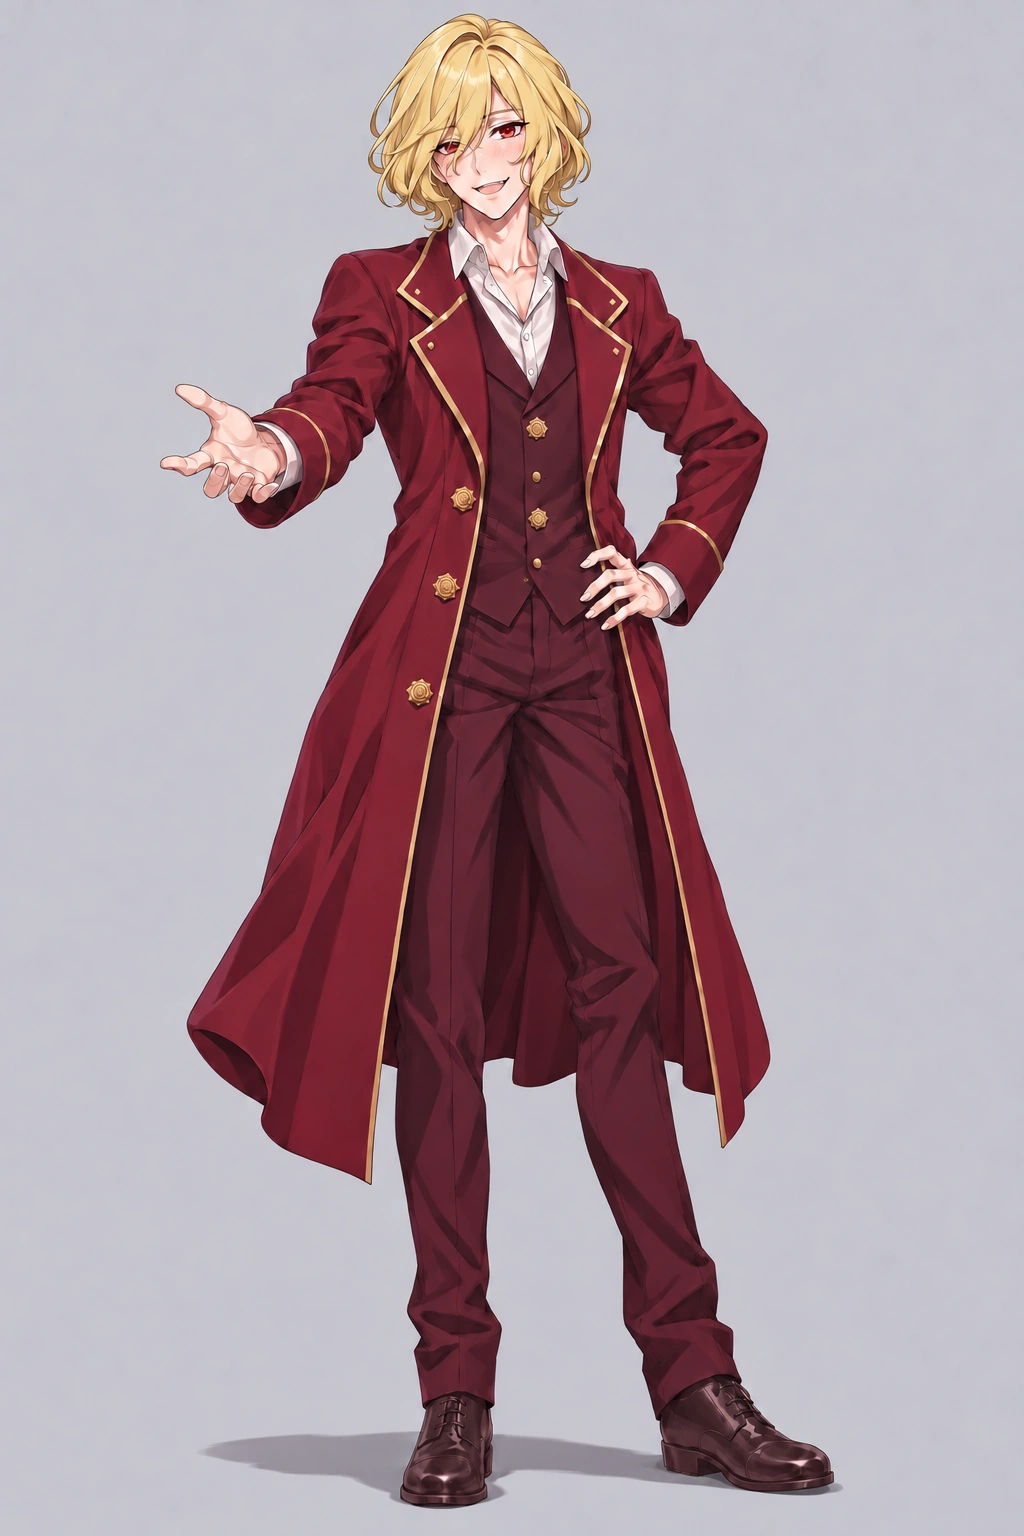
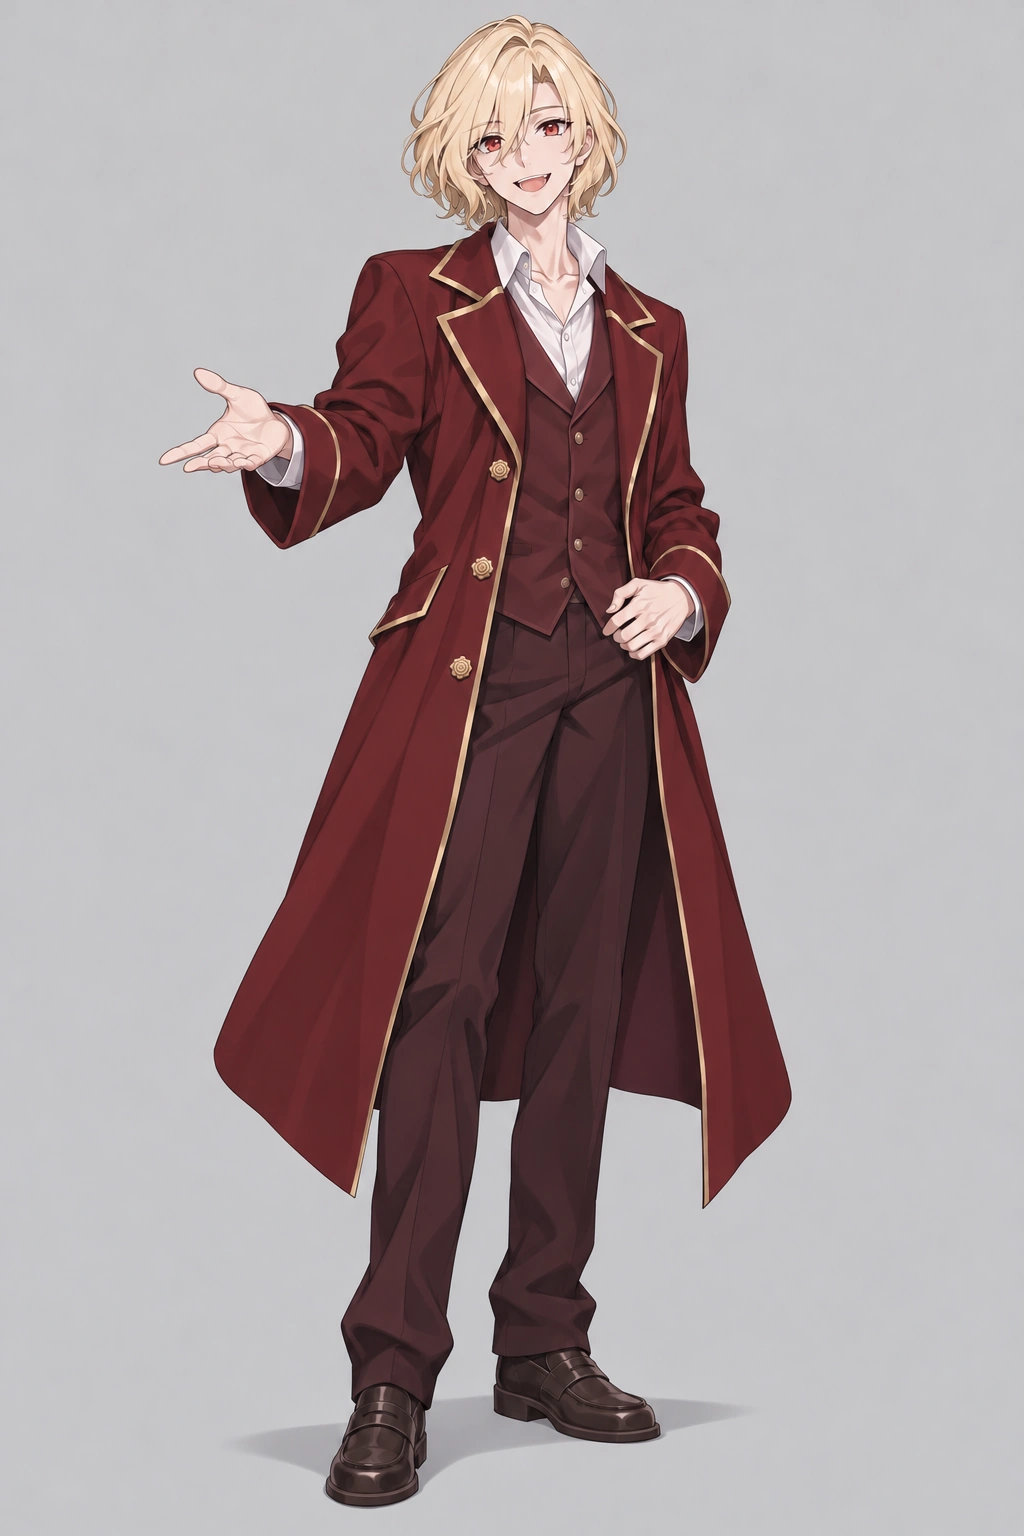
タスの確定立ち絵を更新しオリジナルスケッチ欄を空欄にする (#127)

Changed region(s): [[0.1562, 0.0, 0.8125, 1.0]]

diff --git a/app.js b/app.js
@@ -278,7 +278,7 @@ function renderCharacterDetail(characters) {
   const imageGrid = element("div", "image-grid");
   imageGrid.append(
     artCard(character.images.portrait, `${character.name}のAI立ち絵`, "AI standing illustration", "art-card--portrait"),
-    artCard(character.images.original, `${character.name}の元手書き資料`, "Original sketch", "art-card--sketch")
+    artCard(character.hideOriginalSketch ? null : character.images.original, `${character.name}の元手書き資料`, "Original sketch", "art-card--sketch")
   );
   gallery.append(imageGrid);
 
@@ -315,12 +315,15 @@ function setupAbilityCycle(target, abilities) {
 
 function artCard(src, alt, caption, modifier) {
   const figure = element("figure", `art-card ${modifier}`);
-  const image = element("img");
-  image.src = src;
-  image.alt = alt;
-  image.loading = "lazy";
-  image.decoding = "async";
-  figure.append(image, element("figcaption", "", caption));
+  if (src) {
+    const image = element("img");
+    image.src = src;
+    image.alt = alt;
+    image.loading = "lazy";
+    image.decoding = "async";
+    figure.append(image);
+  }
+  figure.append(element("figcaption", "", caption));
   return figure;
 }
 

diff --git a/character.html b/character.html
@@ -6,7 +6,7 @@
   <meta name="description" content="カス高 キャラクター名鑑">
   <title>キャラクター | カス高 キャラクター名鑑</title>
   <link rel="stylesheet" href="styles.css?v=tas-hidden-v1">
-  <script src="app.js?v=tas-hidden-v1" defer></script>
+  <script src="app.js?v=tas-redraw-v2" defer></script>
 </head>
 <body data-page="detail">
   <main class="page-shell">
